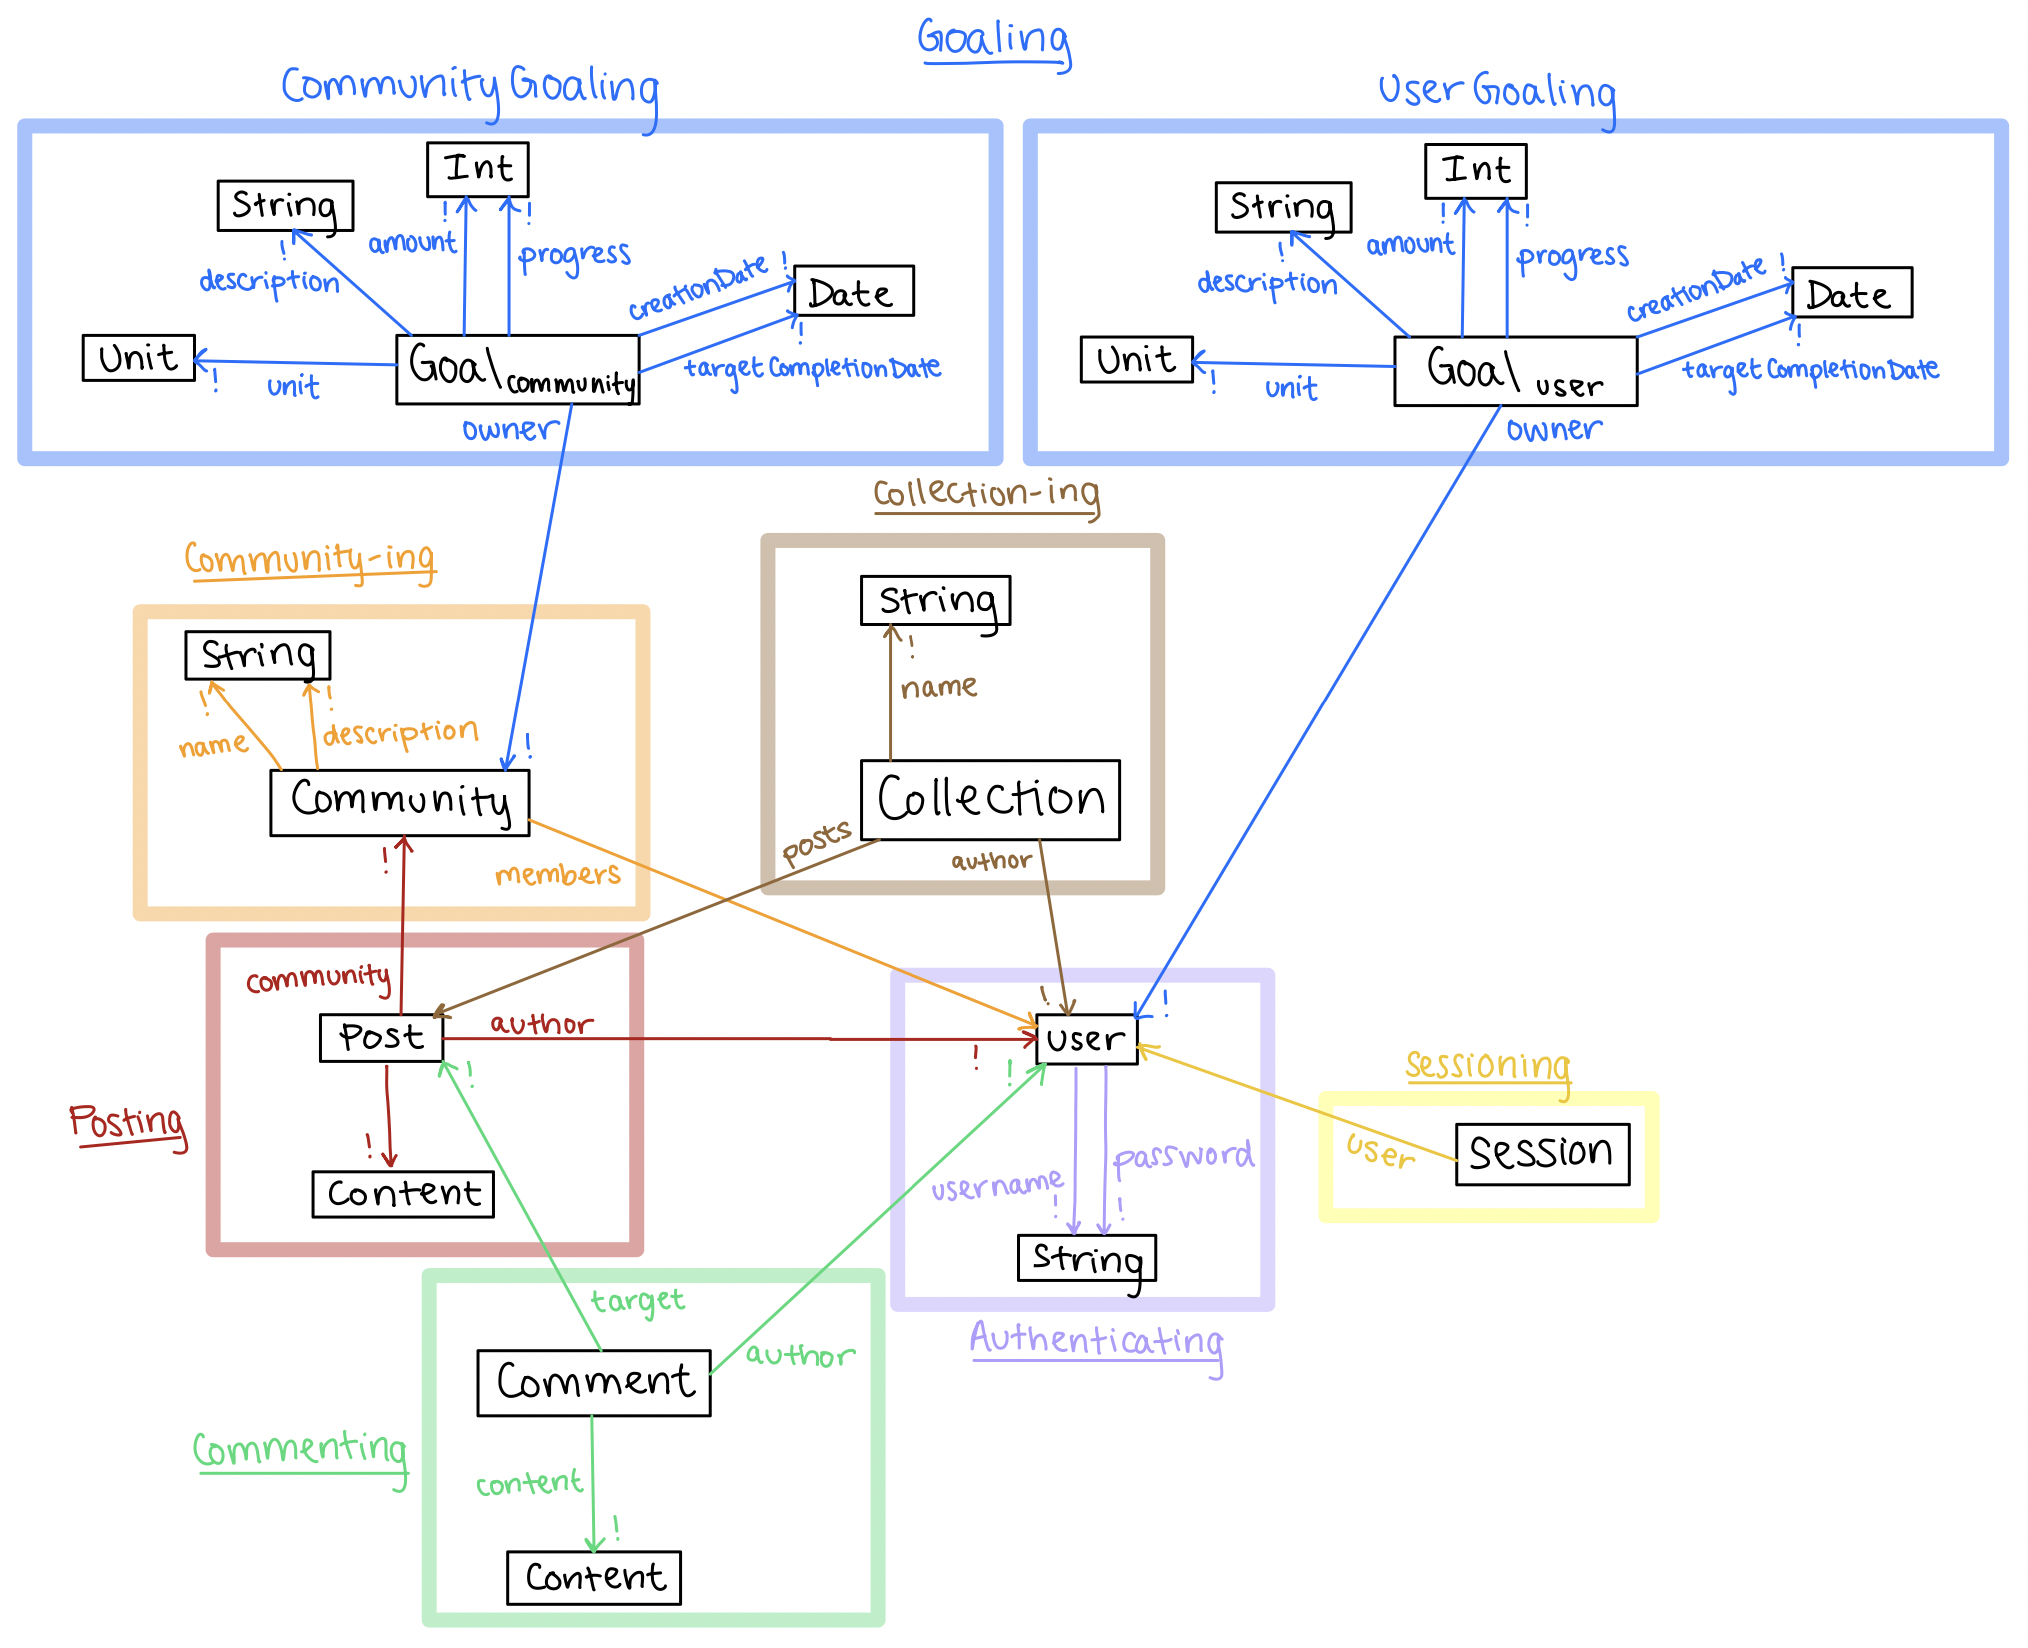
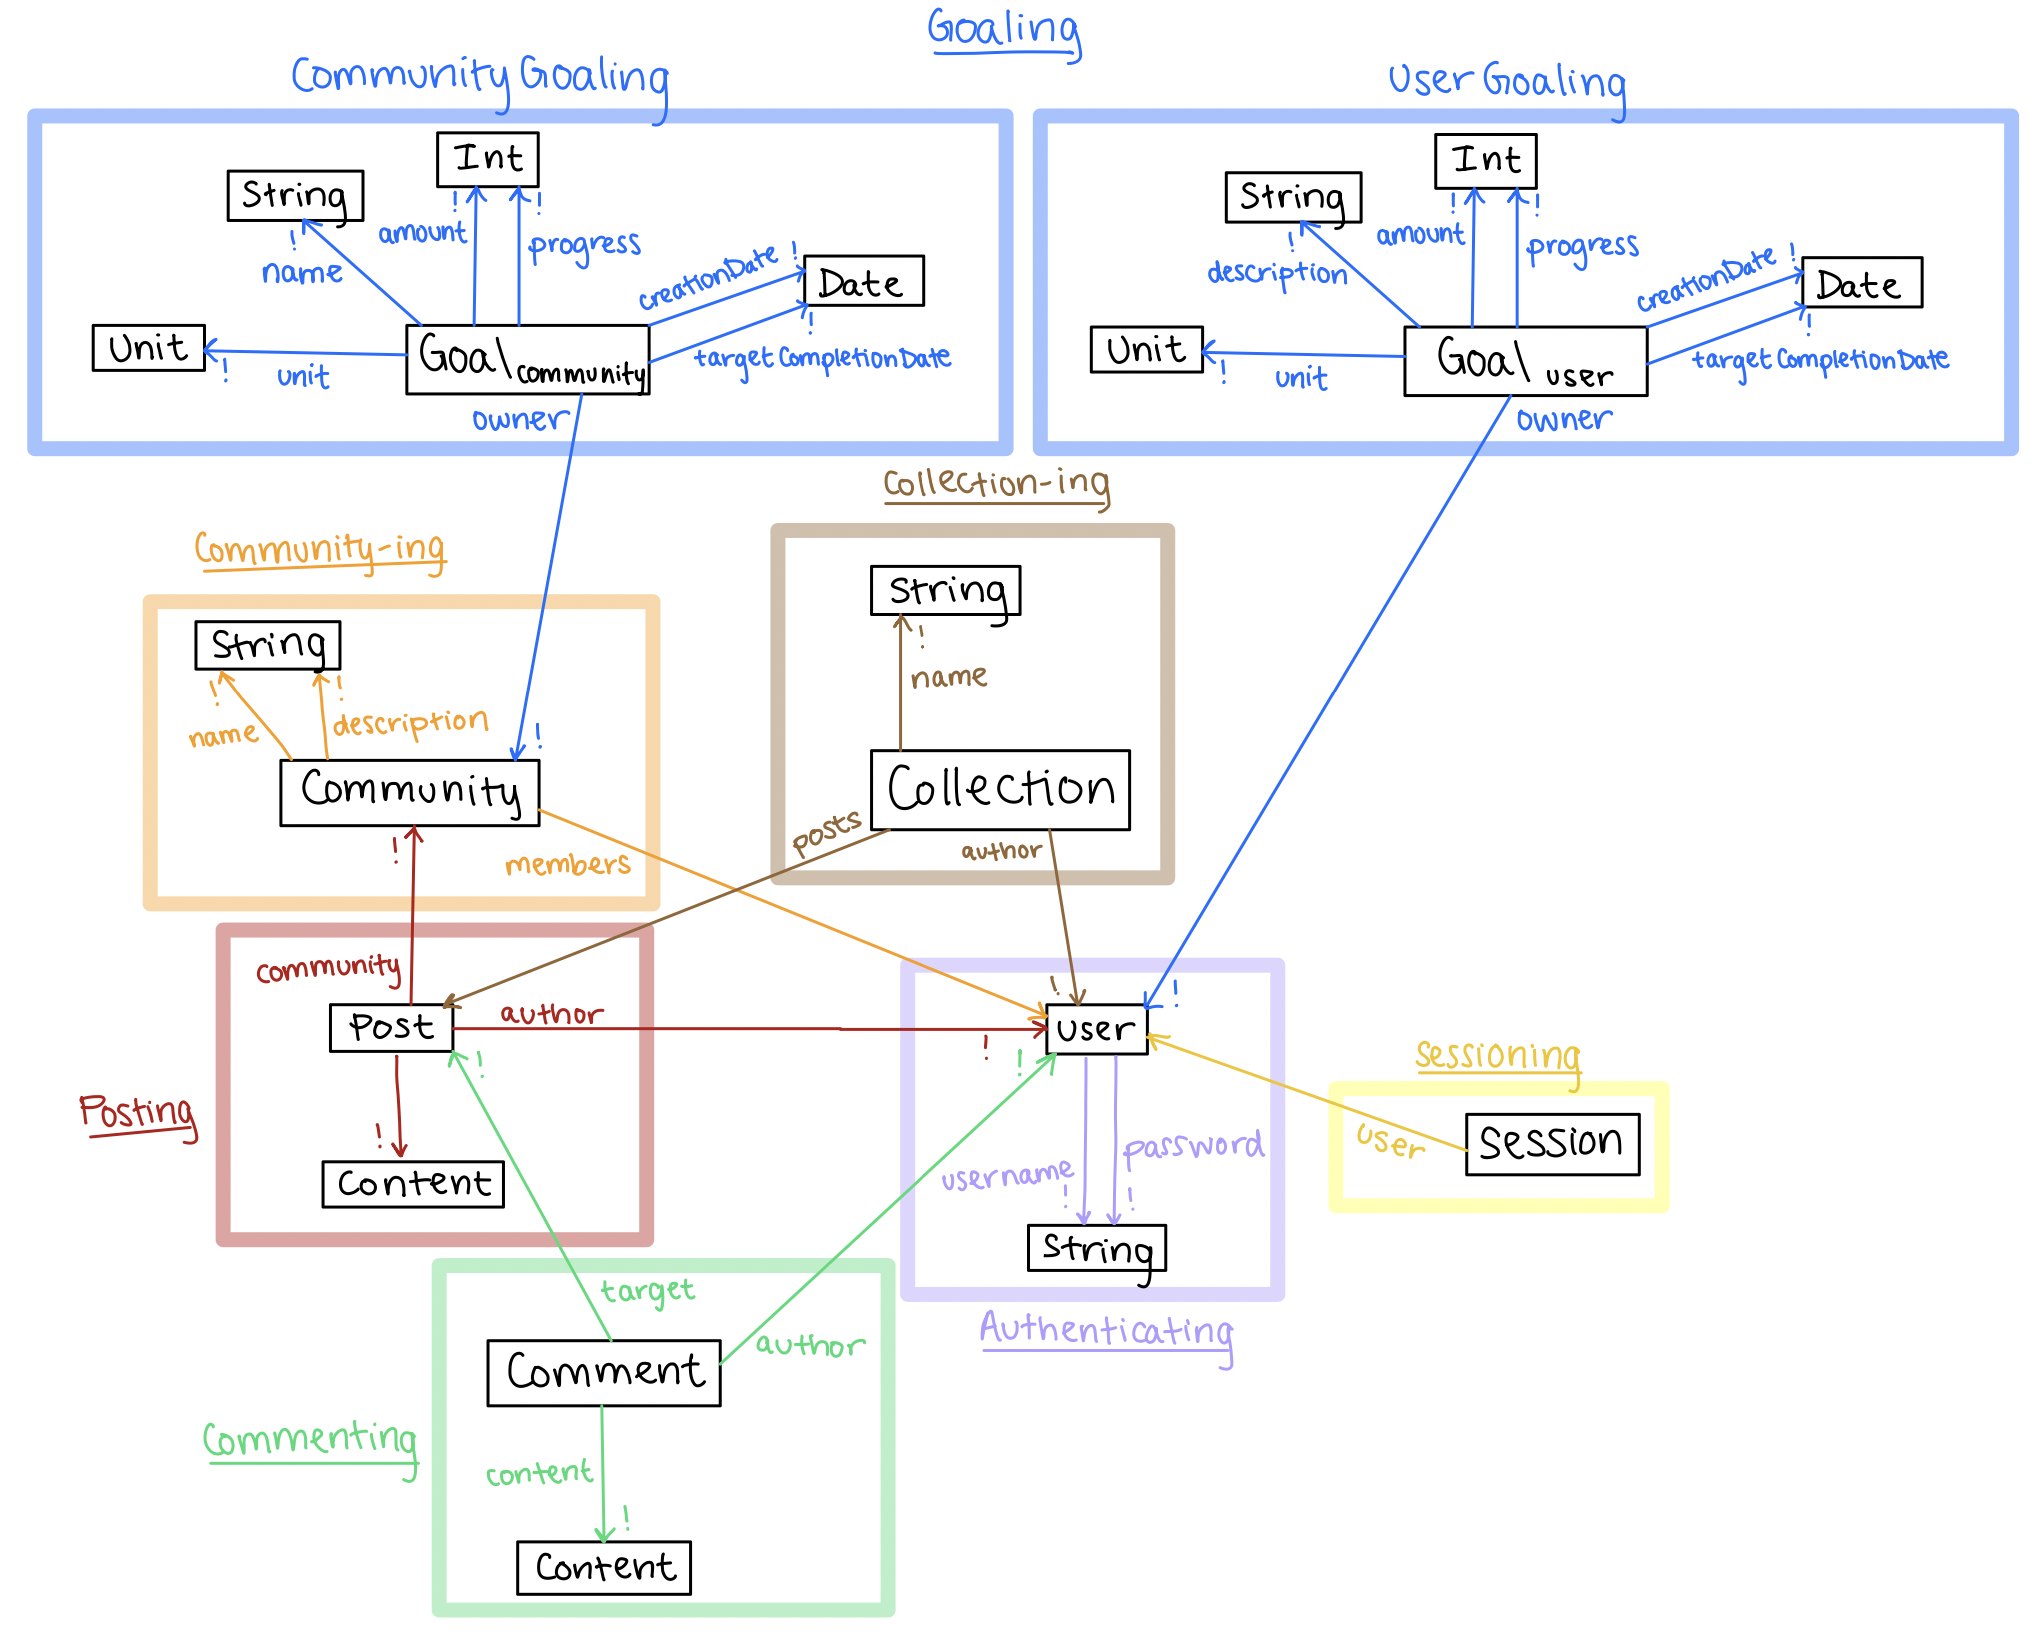
fix goaling

Changed region(s): [[0.0, 0.0, 0.9941, 0.9988]]

diff --git a/docs/assignments/a4.md b/docs/assignments/a4.md
@@ -54,7 +54,7 @@ items: communities --> set Item
 goals: set Goal
 completedGoals: set Goal
 owner: goals --> one Owner
-description: goals --> one String
+name: goals --> one String
 unit: goals --> one Unit
 amount: goals --> one Int
 progress: goals --> one Int
